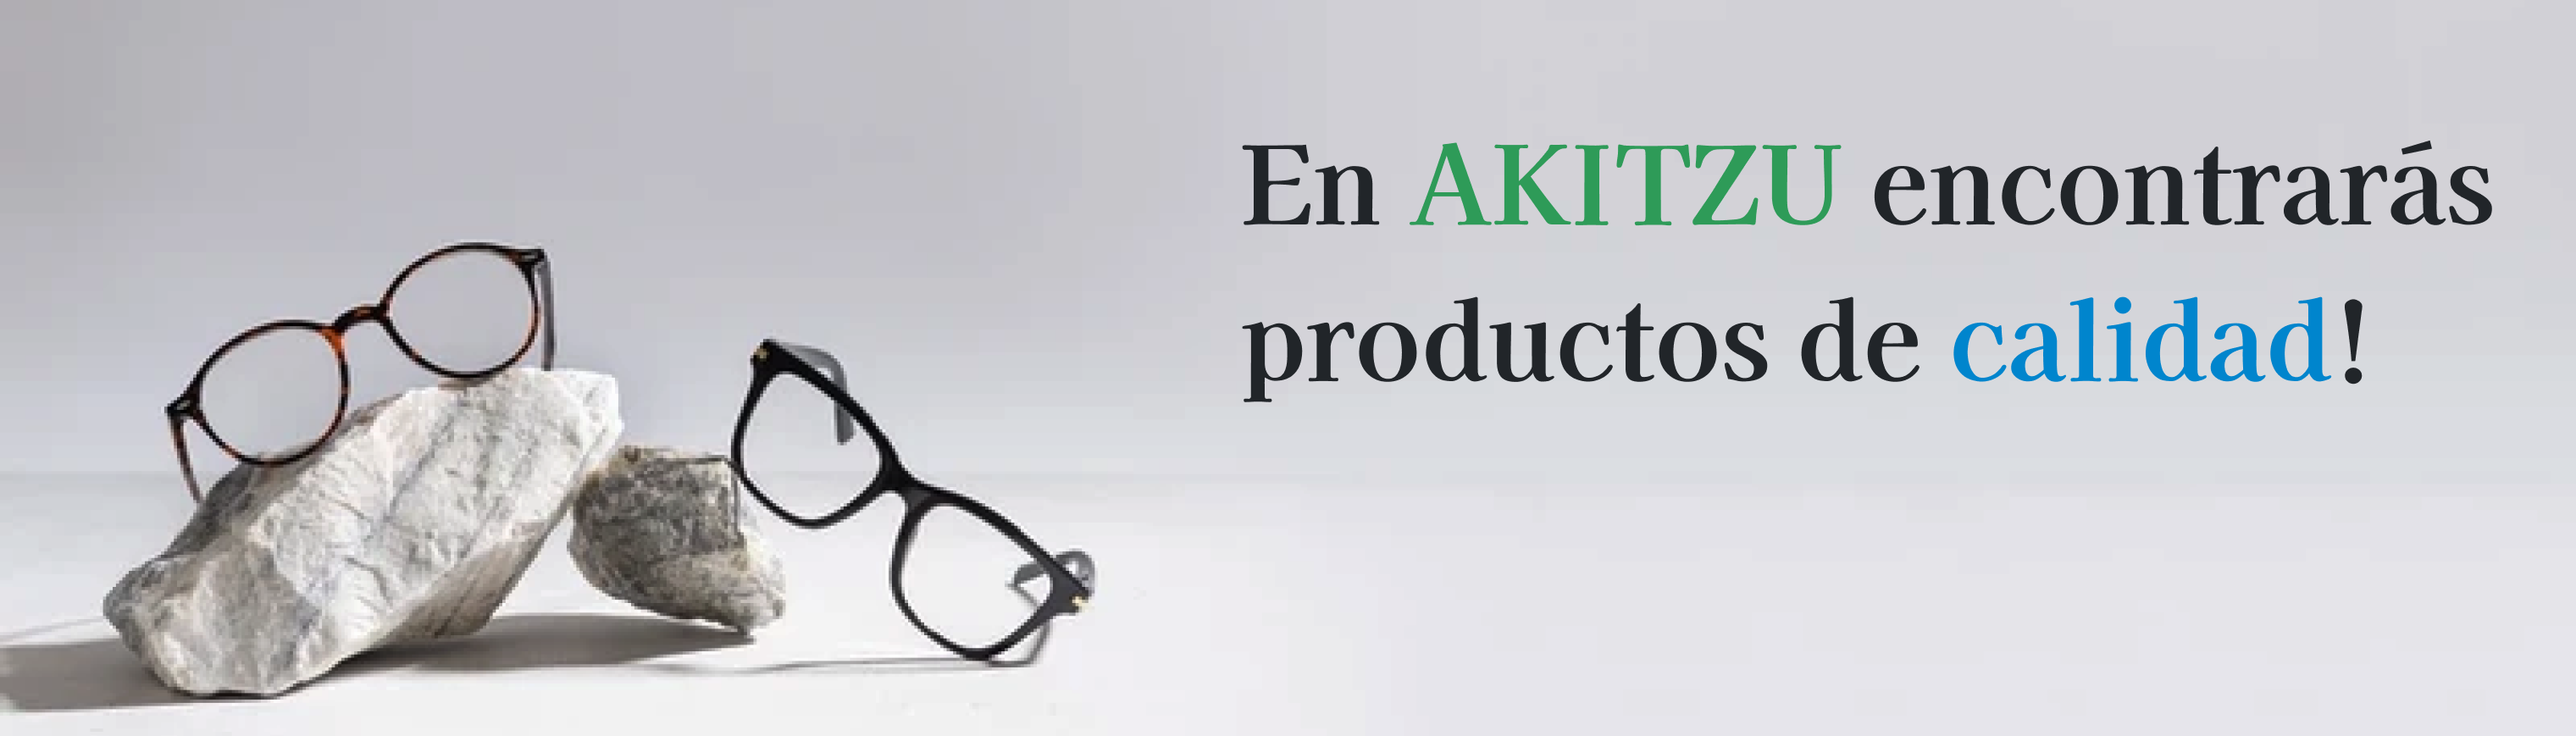
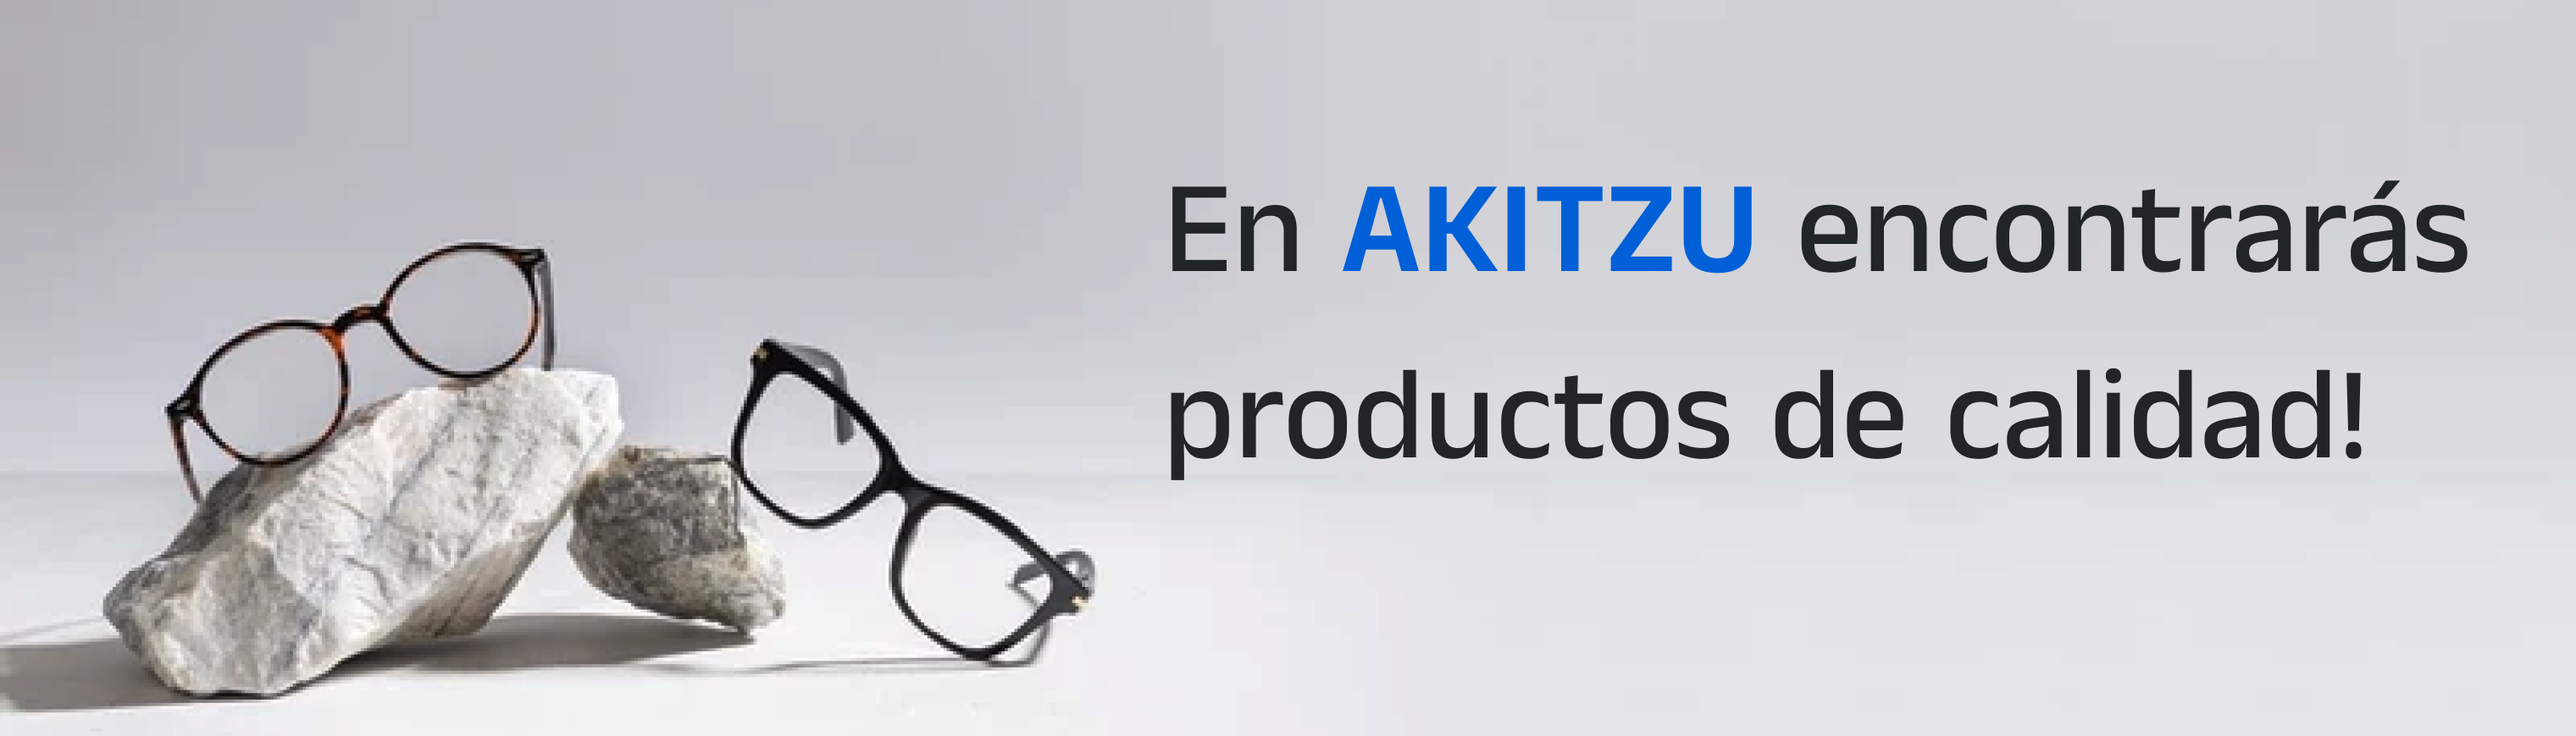
Finish
Super actualización

Changed region(s): [[0.4374, 0.4039, 0.9372, 0.6525], [0.4374, 0.1864, 0.9684, 0.3728]]

diff --git a/index.html b/index.html
@@ -12,7 +12,7 @@
         <link href="css/styles.css" rel="stylesheet" />
     </head>
 
-    <body id="page-top">
+    <body id="body_index">
         <!-- Navigation-->
         <nav class="navbar sticky-top navbar-expand-lg navbar-dark bg-dark">
             <div class="container-fluid">
@@ -22,38 +22,48 @@
                 </button>
                 <div class="collapse navbar-collapse" id="navbarOptions">
                     <div class="navbar-nav">
-                        <a class="nav-link" href="views/agendar_cita.html">Agendar Cita</a>
-                        <a class="nav-link" href="views/nosotros.html">Nosotros</a>
-                        <a class="nav-link" href="views/servicios.html">Servicios</a>
-                        <a class="nav-link" href="views/ubicacion.html">Ubicación</a>
+                        <a class="nav-link mr-2" href="views/agendar_cita.html">Agendar Cita</a>
+                        <a class="nav-link mr-2" href="views/nosotros.html">Nosotros</a>
+                        <a class="nav-link mr-2" href="views/servicios.html">Servicios</a>
+                        <a class="nav-link mr-2" href="views/ubicacion.html">Contacto</a>
                     </div>
                 </div>
             </div>
         </nav>
-        <div id="carouselIndex" class="carousel slide" data-ride="carousel">
-            <ol class="carousel-indicators">
-                <li data-target="#carouselIndex" data-slide-to="0" class="active"></li>
-                <li data-target="#carouselIndex" data-slide-to="1"></li>
-            </ol>
+        <div id="carouselExampleControls" class="carousel slide" data-bs-ride="carousel">
             <div class="carousel-inner">
               <div class="carousel-item active">
-                <img class="d-block w-100" src="assets/img/C2.png" alt="Akitzu img 1">
+                <img src="assets/img/C2.png" class="d-block w-100" alt="...">
               </div>
               <div class="carousel-item">
-                <img class="d-block w-100" src="assets/img/C1.png" alt="Akitzu img 2">
+                <img src="assets/img/C3.png"" class="d-block w-100" alt="...">
+              </div>
+              <div class="carousel-item">
+                <img src="assets/img/C1.png" class="d-block w-100" alt="...">
               </div>
             </div>
+            <button class="carousel-control-prev" type="button" data-bs-target="#carouselExampleControls" data-bs-slide="prev">
+              <span class="carousel-control-prev-icon" aria-hidden="true"></span>
+              <span class="visually-hidden">Previous</span>
+            </button>
+            <button class="carousel-control-next" type="button" data-bs-target="#carouselExampleControls" data-bs-slide="next">
+              <span class="carousel-control-next-icon" aria-hidden="true"></span>
+              <span class="visually-hidden">Next</span>
+            </button>
+          </div>
+        
         </div><br><br>
+        
         <!-- Content section 1-->
         <section>
             <div class="container px-5">
                 <div class="row gx-5 align-items-center">
                     <div class="col-md-6 col-xs-12 order-lg-2">
-                        <div class="p-5"><img class="img-fluid rounded-circle" src="assets/img/gafas/_7888.jpeg" alt="..." /></div>
+                        <div class="p-5"><img class="img-fluid rounded-circle" src="assets/img/gafas/_02.jpeg" alt="..." /></div>
                     </div>
                     <div class="col-md-6 col-xs-12 order-lg-1">
                         <div class="p-5">
-                            <h2 class="display-4">Gafas Formuladas</h2>
+                            <h1>Gafas Formuladas</h1>
                             <br><p>Los lentes formulados están diseñados para cubrir las necesidades de pacientes con diagnósticos como miopía, hipermetropía, astigmatismo y presbicia. De igual forma sucede con los lentes de contacto.</p>
                         </div>
                     </div>
@@ -65,11 +75,11 @@
             <div class="container px-5">
                 <div class="row gx-5 align-items-center">
                     <div class="col-md-6 col-xs-12">
-                        <div class="p-5"><img class="img-fluid rounded-circle" src="assets/img/gafas/_7871.jpeg" alt="..." /></div>
+                        <div class="p-5"><img class="img-fluid rounded-circle" src="assets/img/gafas/_10.png" alt="..." /></div>
                     </div>
                     <div class="col-md-6 col-xs-12">
                         <div class="p-5">
-                            <h2 class="display-4">Gafas de sol</h2>
+                            <h1>Gafas de sol</h1>
                             <br><p>Las gafas de sol poseen lentes oscurecidos o coloreados que son un instrumento óptico de protección ocular, su función es proteger los ojos de las radiaciones nocivas del sol y de posibles inconvenientes como el polvo, el viento, o la luz directa y molesta.</p>
                         </div>
                     </div>
@@ -81,24 +91,29 @@
             <div class="container px-5">
                 <div class="row gx-5 align-items-center">
                     <div class="col-md-6 col-xs-12 order-lg-2">
-                        <div class="p-5"><img class="img-fluid rounded-circle" src="assets/img/gafas/_7886.jpeg" alt="..." /></div>
+                        <div class="p-5"><img class="img-fluid rounded-circle" src="assets/img/gafas/_09.jpeg" alt="..." /></div>
                     </div>
                     <div class="col-md-6 col-xs-12 order-lg-1">
                         <div class="p-5">
-                            <h2 class="display-4">Lentes de Contacto</h2>
+                            <h1>Lentes de Contacto</h1>
                             <br><p>Los lentes de contacto ademas de ofrecer flexibilidad, comodidad y una imagen mas estética, ayudan a corregir diversos trastornos de la visión como lo son la miopía, el astigmatismo entre otros.</p>
                         </div>
                     </div>
                 </div>
             </div>
         </section>
+        <div style="position: absolute;bottom: 10px;right: 10px;">
+            <a href="https://wa.link/2or3uc" class="btn-wsp" target="_blank">
+                <img src="assets/img/whatsapp_icon.png" alt="Akitzu" style="max-width: 80px;">
+            </a>
+        </div>
         <!-- Footer-->
-        <footer class="py-3 my-4">
+        <footer class="py-3 my-4 s">
             <ul class="nav justify-content-center border-bottom pb-3 mb-3">
                 <li class="nav-item"><a href="views/agendar_cita.html" class="nav-link px-2 text-muted">Agendar Cita</a></li>
                 <li class="nav-item"><a href="views/nosotros.html" class="nav-link px-2 text-muted">Nosotros</a></li>
                 <li class="nav-item"><a href="views/servicios.html" class="nav-link px-2 text-muted">Servicios</a></li>
-                <li class="nav-item"><a href="views/ubicacion.html" class="nav-link px-2 text-muted">Ubicación</a></li>
+                <li class="nav-item"><a href="views/ubicacion.html" class="nav-link px-2 text-muted">Contacto</a></li>
             </ul>
             <p class="text-center text-muted">© 2023 Akitzu</p>
         </footer>

diff --git a/views/servicios.html b/views/servicios.html
@@ -14,7 +14,7 @@
         <link href="https://cdn.jsdelivr.net/npm/bootstrap@5.0.2/dist/css/bootstrap.min.css" rel="stylesheet" integrity="sha384-EVSTQN3/azprG1Anm3QDgpJLIm9Nao0Yz1ztcQTwFspd3yD65VohhpuuCOmLASjC" crossorigin="anonymous">
         <link href="../css/styles.css" rel="stylesheet" />
     </head>
-    <body id="page-top">
+    <body id="body_servicios">
         <!-- Navigation-->
         <nav class="navbar sticky-top navbar-expand-lg navbar-dark bg-dark">
             <div class="container-fluid">
@@ -27,43 +27,50 @@
                         <a class="nav-link" href="agendar_cita.html">Agendar Cita</a>
                         <a class="nav-link" href="nosotros.html">Nosotros</a>
                         <a class="nav-link" href="servicios.html">Servicios</a>
-                        <a class="nav-link" href="ubicacion.html">Ubicación</a>
+                        <a class="nav-link" href="ubicacion.html">Contacto</a>
                     </div>
                 </div>
             </div>
         </nav><br><br>
-        <h1 class="text-center">Servicios</h1><br>
+        <h1 class="text-center" style="color: white;">Servicios</h1><br>
 
         <div class="container" style="display: flex; justify-content: center;">
-            <div class="card">
+            <div class="card" style=" border-radius: 20px;padding: 1rem; box-shadow: rgba(0, 0, 0, 0.24) 0px 3px 8px; background-color: white;">
                 <div class="card-body">
                     <div class="row row-cols-2 p-3">
                         <div class="col">
                             <ul>
-                                <li>Optometria.</li>
+                                <li>Optometría.</li>
                                 <li>Lentes formulados.</li>
-                                <li>Lentes estéticos.</li>
+                                <li>Venta de monturas.</li>
+                                <li>Diversidad de materiales y tratamientos especiales para tus lentes.</li>
                             </ul>
                         </div>
                         <div class="col">
                             <ul>
-                                <li>Lentes de contacto especializados.</li>
-                                <li>Lentes especiales.</li>
-                                <li>Tamízame visual.</li>
+                                <li>Lentes de sol.</li>
+                                <li>Tamisaje visual.</li>
+                                <li>Líquidos para lentes de contacto.</li>
+                                <li>Lentes de contacto formulados y de lujo.</li>
                             </ul>
                         </div>
                     </div>
                 </div>
             </div>
         </div>
-<br><br><br><br><br><br><br><br><br><br><br><br><br><br><br>
+<br><br><br><br><br><br><br><br><br><br>
+<div style="position: absolute;bottom: 10px;right: 10px;">
+    <a href="https://wa.link/2or3uc" class="btn-wsp" target="_blank">
+        <img src="../assets/img/whatsapp_icon.png" alt="Akitzu" style="max-width: 80px;">
+    </a>
+</div>
         <!-- Footer-->
         <footer class="py-3 my-4">
             <ul class="nav justify-content-center border-bottom pb-3 mb-3">
                 <li class="nav-item"><a href="agendar_cita.html" class="nav-link px-2 text-muted">Agendar Cita</a></li>
                 <li class="nav-item"><a href="nosotros.html" class="nav-link px-2 text-muted">Nosotros</a></li>
                 <li class="nav-item"><a href="servicios.html" class="nav-link px-2 text-muted">Servicios</a></li>
-                <li class="nav-item"><a href="ubicacion.html" class="nav-link px-2 text-muted">Ubicación</a></li>
+                <li class="nav-item"><a href="ubicacion.html" class="nav-link px-2 text-muted">Contacto</a></li>
             </ul>
             <p class="text-center text-muted">© 2023 Akitzu</p>
         </footer>

diff --git a/views/ubicacion.html b/views/ubicacion.html
@@ -27,30 +27,56 @@
                         <a class="nav-link" href="agendar_cita.html">Agendar Cita</a>
                         <a class="nav-link" href="nosotros.html">Nosotros</a>
                         <a class="nav-link" href="servicios.html">Servicios</a>
-                        <a class="nav-link" href="ubicacion.html">Ubicación</a>
+                        <a class="nav-link" href="ubicacion.html">Contacto</a>
                     </div>
                 </div>
             </div>
         </nav><br><br>
-        <h1 class="text-center">Ubicación</h1><br>
-<div class="container" style="display: flex; justify-content: center;">
-    <div class="row">
-        <div class="col text-center">
-            <p>Fotos del local</p>
-            <p>Dirección</p>
-            <p>opción de entrega a domicilio</p>
-        </div>
-    </div>
-</div>
-          <br><br><br><br><br><br><br><br><br><br><br><br><br><br><br><br><br>
+        <h1 class="text-center"  style="color: white;">Contáctanos</h1><br>
+        <div class="container">
+            <div class="row">
+                <div class="col text-center">
+                    <div class="card" style="border-radius: 20px;padding: 2rem; box-shadow: rgba(0, 0, 0, 0.24) 0px 3px 8px;">
+                        <span>Cra 1D 61A-88 Cali</span>
+                        <span><b>Celular</b> 300 851 5106</span>
+                        <span><b>Teléfono</b> 602 385 7177</span>
+                        <span>akitzuoptica@gmail.com</span>
+                    </div>
+                </div>
+            </div><br><br>
+            <div class="" style="display: flex; justify-content: center;">
+                <div class="col-4" style="display: flex; justify-content: center;">
+                    <div class="card" style="width: 285px; border-radius: 20px;padding: 1rem; box-shadow: rgba(0, 0, 0, 0.24) 0px 3px 8px;">
+                        <img src="../assets/img/gafas/_04.jpeg" alt="...">
+                    </div>
+                </div>
+                <div class="col-4" style="display: flex; justify-content: center;">
+                    <div class="card" style="width: 285px; border-radius: 20px;padding: 1rem; box-shadow: rgba(0, 0, 0, 0.24) 0px 3px 8px;">
+                        <img src="../assets/img/gafas/_03.jpeg" alt="...">
+                    </div>
+                </div>
+                <div class="col-4" style="display: flex; justify-content: center;">
+                    <div class="card" style="width: 285px; border-radius: 20px;padding: 1rem; box-shadow: rgba(0, 0, 0, 0.24) 0px 3px 8px;">
+                        <img src="../assets/img/gafas/_07.jpeg" alt="...">
+                    </div>
+                </div>
+            </div>
 
+        </div>
+        <br><br>
+        <br><br>
+        <div style="position: absolute;bottom: 10px;right: 10px;">
+            <a href="https://wa.link/2or3uc" class="btn-wsp" target="_blank">
+                <img src="../assets/img/whatsapp_icon.png" alt="Akitzu" style="max-width: 80px;">
+            </a>
+        </div>
         <!-- Footer-->
         <footer class="py-3 my-4">
             <ul class="nav justify-content-center border-bottom pb-3 mb-3">
                 <li class="nav-item"><a href="agendar_cita.html" class="nav-link px-2 text-muted">Agendar Cita</a></li>
                 <li class="nav-item"><a href="nosotros.html" class="nav-link px-2 text-muted">Nosotros</a></li>
                 <li class="nav-item"><a href="servicios.html" class="nav-link px-2 text-muted">Servicios</a></li>
-                <li class="nav-item"><a href="ubicacion.html" class="nav-link px-2 text-muted">Ubicación</a></li>
+                <li class="nav-item"><a href="ubicacion.html" class="nav-link px-2 text-muted">Contacto</a></li>
             </ul>
             <p class="text-center text-muted">© 2023 Akitzu</p>
         </footer>

diff --git a/views/nosotros.html b/views/nosotros.html
@@ -27,13 +27,13 @@
                         <a class="nav-link" href="agendar_cita.html">Agendar Cita</a>
                         <a class="nav-link" href="nosotros.html">Nosotros</a>
                         <a class="nav-link" href="servicios.html">Servicios</a>
-                        <a class="nav-link" href="ubicacion.html">Ubicación</a>
+                        <a class="nav-link" href="ubicacion.html">Contacto</a>
                     </div>
                 </div>
             </div>
         </nav><br><br>
-        <h1 class="text-center">Nosotros</h1><br>
-        <div class="container" style="display: flex; justify-content: center;">
+        <h1 class="text-center" style="color: white;">Nosotros</h1><br>
+        <div class="container" style="display: flex; justify-content: center; border-radius: 20px;padding: 2rem; box-shadow: rgba(0, 0, 0, 0.24) 0px 3px 8px; background-color: white;">
             <div class="row row-cols-1 p-3" style="max-width: 60rem;">
                 <div class="col mb-4">
                     <p style="text-align: justify;">
@@ -51,7 +51,7 @@
                 </div>
             <div class="row row-cols-1 row-cols-sm-2 p-3" style="max-width: 60rem;">
                 <div class="col">
-                    <h1 style="text-align: center;">Misión</h1><br>
+                    <h1 style="text-align: center; color: black;">Misión</h1><br>
                     <p style="text-align: justify;">
                         Ayudamos a nuestros pacientes a corregir los trastornos de la visión contando con todo tipo de lentes que 
                         aportan al correcto funcionamiento óptico, de igual manera contamos con la mejor atención al cliente pensando en sus necesidades, 
@@ -59,7 +59,7 @@
                     </p>
                 </div>
                 <div class="col">
-                    <h1 style="text-align: center;">Visión</h1><br>
+                    <h1 style="text-align: center; color: black;">Visión</h1><br>
                     <p style="text-align: justify;">Uno de nuestros objetivos es continuar con la excelencia de nuestro negocio, siendo una de las mejores 
                         ópticas de su localidad. Ser dentro de tres años una óptica aun mas reconocida y con mayor clientela, satisfaciendo sus necesidades.
                     </p>
@@ -69,13 +69,18 @@
             </div>
         </div>
         <br><br><br>
+        <div style="position: absolute;bottom: 10px;right: 10px;">
+            <a href="https://wa.link/2or3uc" class="btn-wsp" target="_blank">
+                <img src="../assets/img/whatsapp_icon.png" alt="Akitzu" style="max-width: 80px;">
+            </a>
+        </div>
         <!-- Footer-->
         <footer class="py-3 my-4">
             <ul class="nav justify-content-center border-bottom pb-3 mb-3">
                 <li class="nav-item"><a href="agendar_cita.html" class="nav-link px-2 text-muted">Agendar Cita</a></li>
                 <li class="nav-item"><a href="nosotros.html" class="nav-link px-2 text-muted">Nosotros</a></li>
                 <li class="nav-item"><a href="servicios.html" class="nav-link px-2 text-muted">Servicios</a></li>
-                <li class="nav-item"><a href="ubicacion.html" class="nav-link px-2 text-muted">Ubicación</a></li>
+                <li class="nav-item"><a href="ubicacion.html" class="nav-link px-2 text-muted">Contacto</a></li>
             </ul>
             <p class="text-center text-muted">© 2023 Akitzu</p>
         </footer>

diff --git a/views/agendar_cita.html b/views/agendar_cita.html
@@ -27,14 +27,14 @@
                         <a class="nav-link" href="agendar_cita.html">Agendar Cita</a>
                         <a class="nav-link" href="nosotros.html">Nosotros</a>
                         <a class="nav-link" href="servicios.html">Servicios</a>
-                        <a class="nav-link" href="ubicacion.html">Ubicación</a>
+                        <a class="nav-link" href="ubicacion.html">Contacto</a>
                     </div>
                 </div>
             </div>
         </nav><br><br>
-        <h1 class="text-center">Agendar Cita</h1><br>
+        <h1 class="text-center" style="color: white;">Agendar Cita</h1><br>
         <div class="container" style="display: flex; justify-content: center;">
-            <div class="row row-cols-1 row-cols-sm-2" style="max-width: 45rem;">
+            <div class="row row-cols-1 row-cols-sm-2" style="border-radius: 20px;padding: 4rem; box-shadow: rgba(0, 0, 0, 0.24) 0px 3px 8px;max-width: 45rem; padding: 2rem; background-color: white;">
                 <div class="col mb-3">
                     <label for="name" class="form-label">Nombre completo*</label>
                     <input type="text" class="form-control" id="name" placeholder="Ingrese su nombre">
@@ -60,14 +60,19 @@
                   </div>
             </div>
         </div>
-        <br><br><br><br><br><br><br><br>
+        <br><br><br><br>
+        <div style="position: absolute;bottom: 10px;right: 10px;">
+            <a href="https://wa.link/2or3uc" class="btn-wsp" target="_blank">
+                <img src="../assets/img/whatsapp_icon.png" alt="Akitzu" style="max-width: 80px;">
+            </a>
+        </div>
         <!-- Footer-->
         <footer class="py-3 my-4">
             <ul class="nav justify-content-center border-bottom pb-3 mb-3">
                 <li class="nav-item"><a href="agendar_cita.html" class="nav-link px-2 text-muted">Agendar Cita</a></li>
                 <li class="nav-item"><a href="nosotros.html" class="nav-link px-2 text-muted">Nosotros</a></li>
                 <li class="nav-item"><a href="servicios.html" class="nav-link px-2 text-muted">Servicios</a></li>
-                <li class="nav-item"><a href="ubicacion.html" class="nav-link px-2 text-muted">Ubicación</a></li>
+                <li class="nav-item"><a href="ubicacion.html" class="nav-link px-2 text-muted">Contacto</a></li>
             </ul>
             <p class="text-center text-muted">© 2023 Akitzu</p>
         </footer>

diff --git a/css/styles.css b/css/styles.css
@@ -1,0 +1,28 @@
+body {
+    font-size: 1.2rem;
+    background-image: url("../assets/img/gafas/fondo_2.jpeg");
+    background-size: cover;
+}
+
+#body_index {
+    background-image: url("../assets/img/gafas/fondo");
+
+}
+
+.card-img-top {
+    width: 30rem;
+}
+
+.btn-wsp {
+    position:fixed;
+    width: 80px;
+    height: 80px;
+    line-height: 80px;
+    bottom: 30px;
+    right: 30px;
+    z-index: 100;
+}
+
+footer:not(.s) .text-muted {
+    color: white !important;
+}
